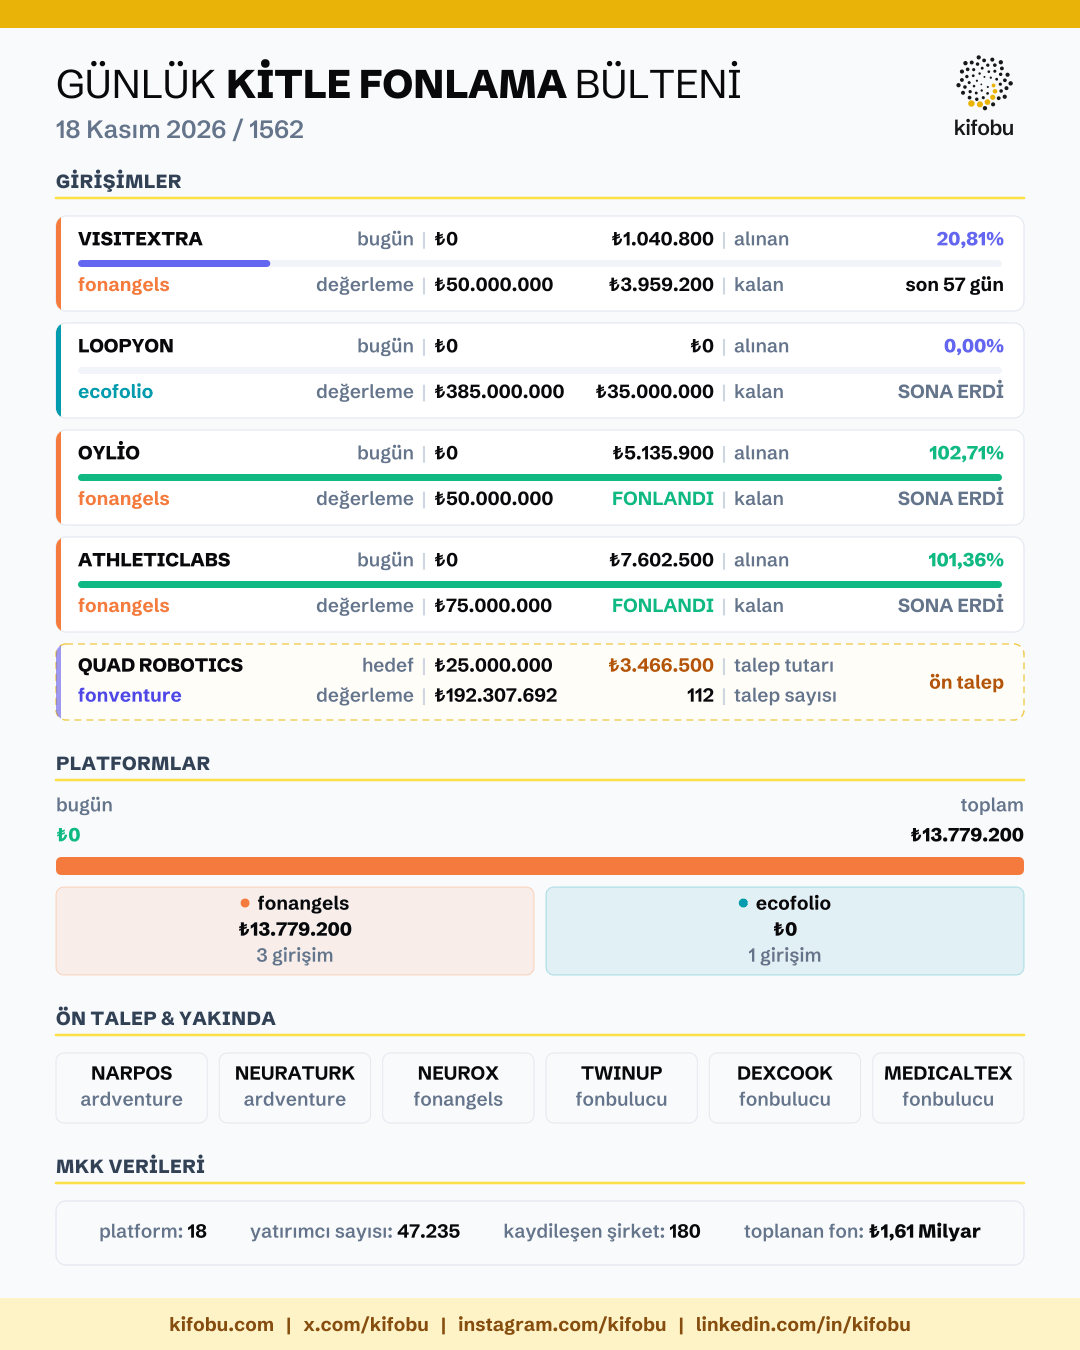
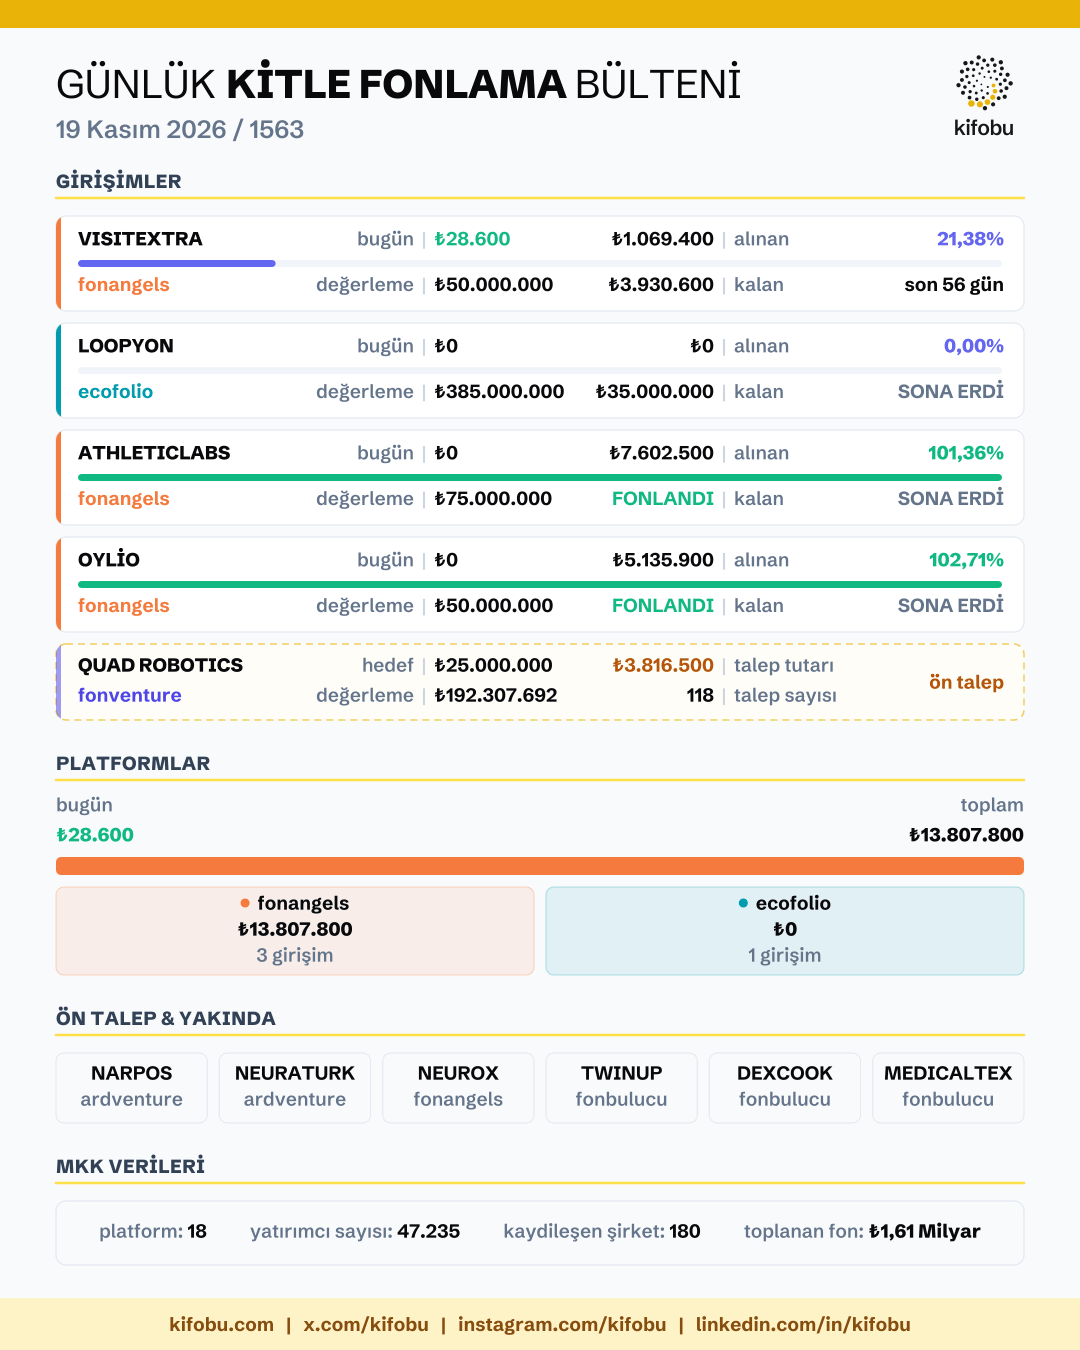
chore(bulten): otomatik bülten ve infografik görselleri güncellendi [skip ci]

diff --git a/src/data/bulten.ts b/src/data/bulten.ts
@@ -1,7 +1,7 @@
 /**
  * Günlük kitle fonlama bülteni verisi ("Bugün" tablosu).
  * Otomatik Bot tarafından oluşturulmuştur.
- * Son güncelleme: 2026-11-19T13:01:06.550Z
+ * Son güncelleme: 2026-11-19T15:01:55.375Z
  */
 export interface Girisim {
   ad: string;
@@ -56,11 +56,11 @@ export const BULTEN = {
     {
         "ad": "VISITEXTRA",
         "platform": "fonangels",
-        "bugun": 27600,
-        "alinan": 1068400,
-        "kalan": 3931600,
+        "bugun": 28600,
+        "alinan": 1069400,
+        "kalan": 3930600,
         "degerleme": 50000000,
-        "yuzde": 21.36,
+        "yuzde": 21.38,
         "durum": "son 56 gün",
         "url": "https://fonangels.com/kampanyalar/projehakkinda/visitextra?pid=1803"
     },
@@ -88,12 +88,12 @@ export const BULTEN = {
     }
 ] as Girisim[],
   platformlar: {
-    bugun: 27600,
-    toplam: 13806800,
+    bugun: 28600,
+    toplam: 13807800,
     liste: [
     {
         "ad": "fonangels",
-        "toplam": 13806800,
+        "toplam": 13807800,
         "girisim": 3,
         "renk": "#f47b3d",
         "url": "https://fonangels.com"
@@ -150,8 +150,8 @@ export const BULTEN = {
         "url": "https://fonventure.com/kampanya/9eade97b-9d7a-4962-bf2a-c49f9a312ee5",
         "hedef": 25000000,
         "degerleme": 192307692,
-        "onTalep": 3481500,
-        "onTalepKisi": 114,
+        "onTalep": 3816500,
+        "onTalepKisi": 118,
         "renk": "#4f46e5"
     }
 ] as Yakinda[],
